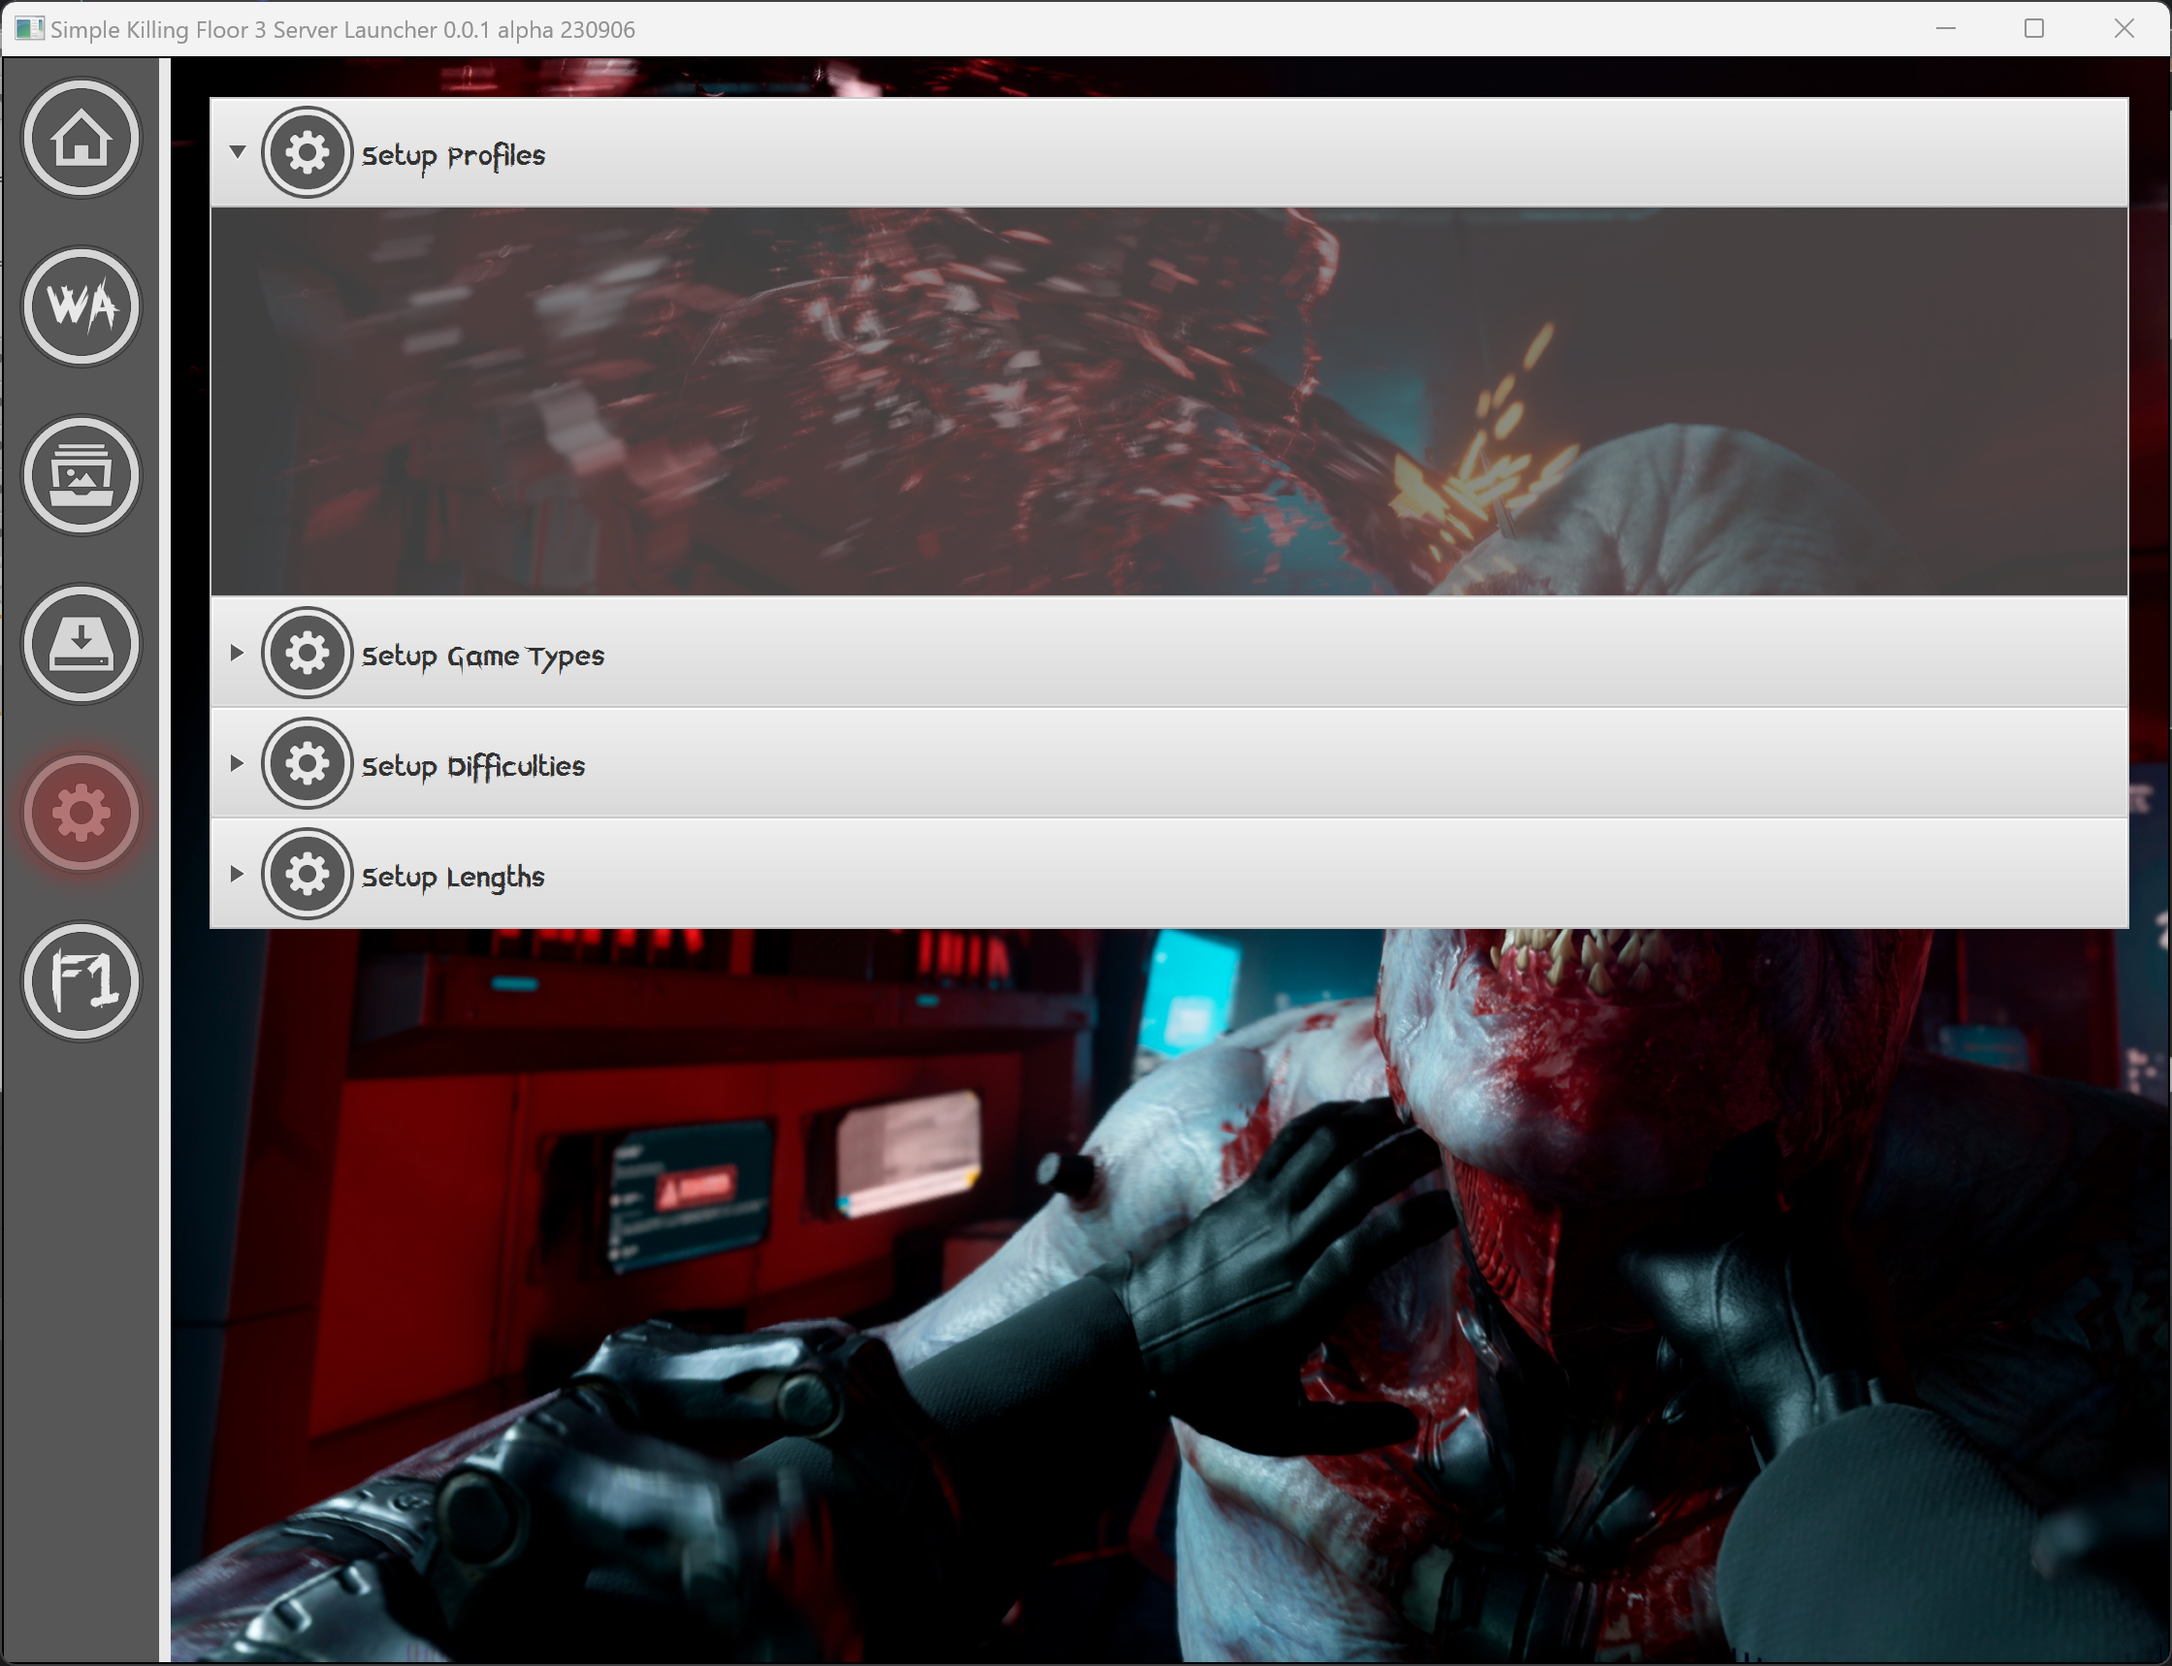
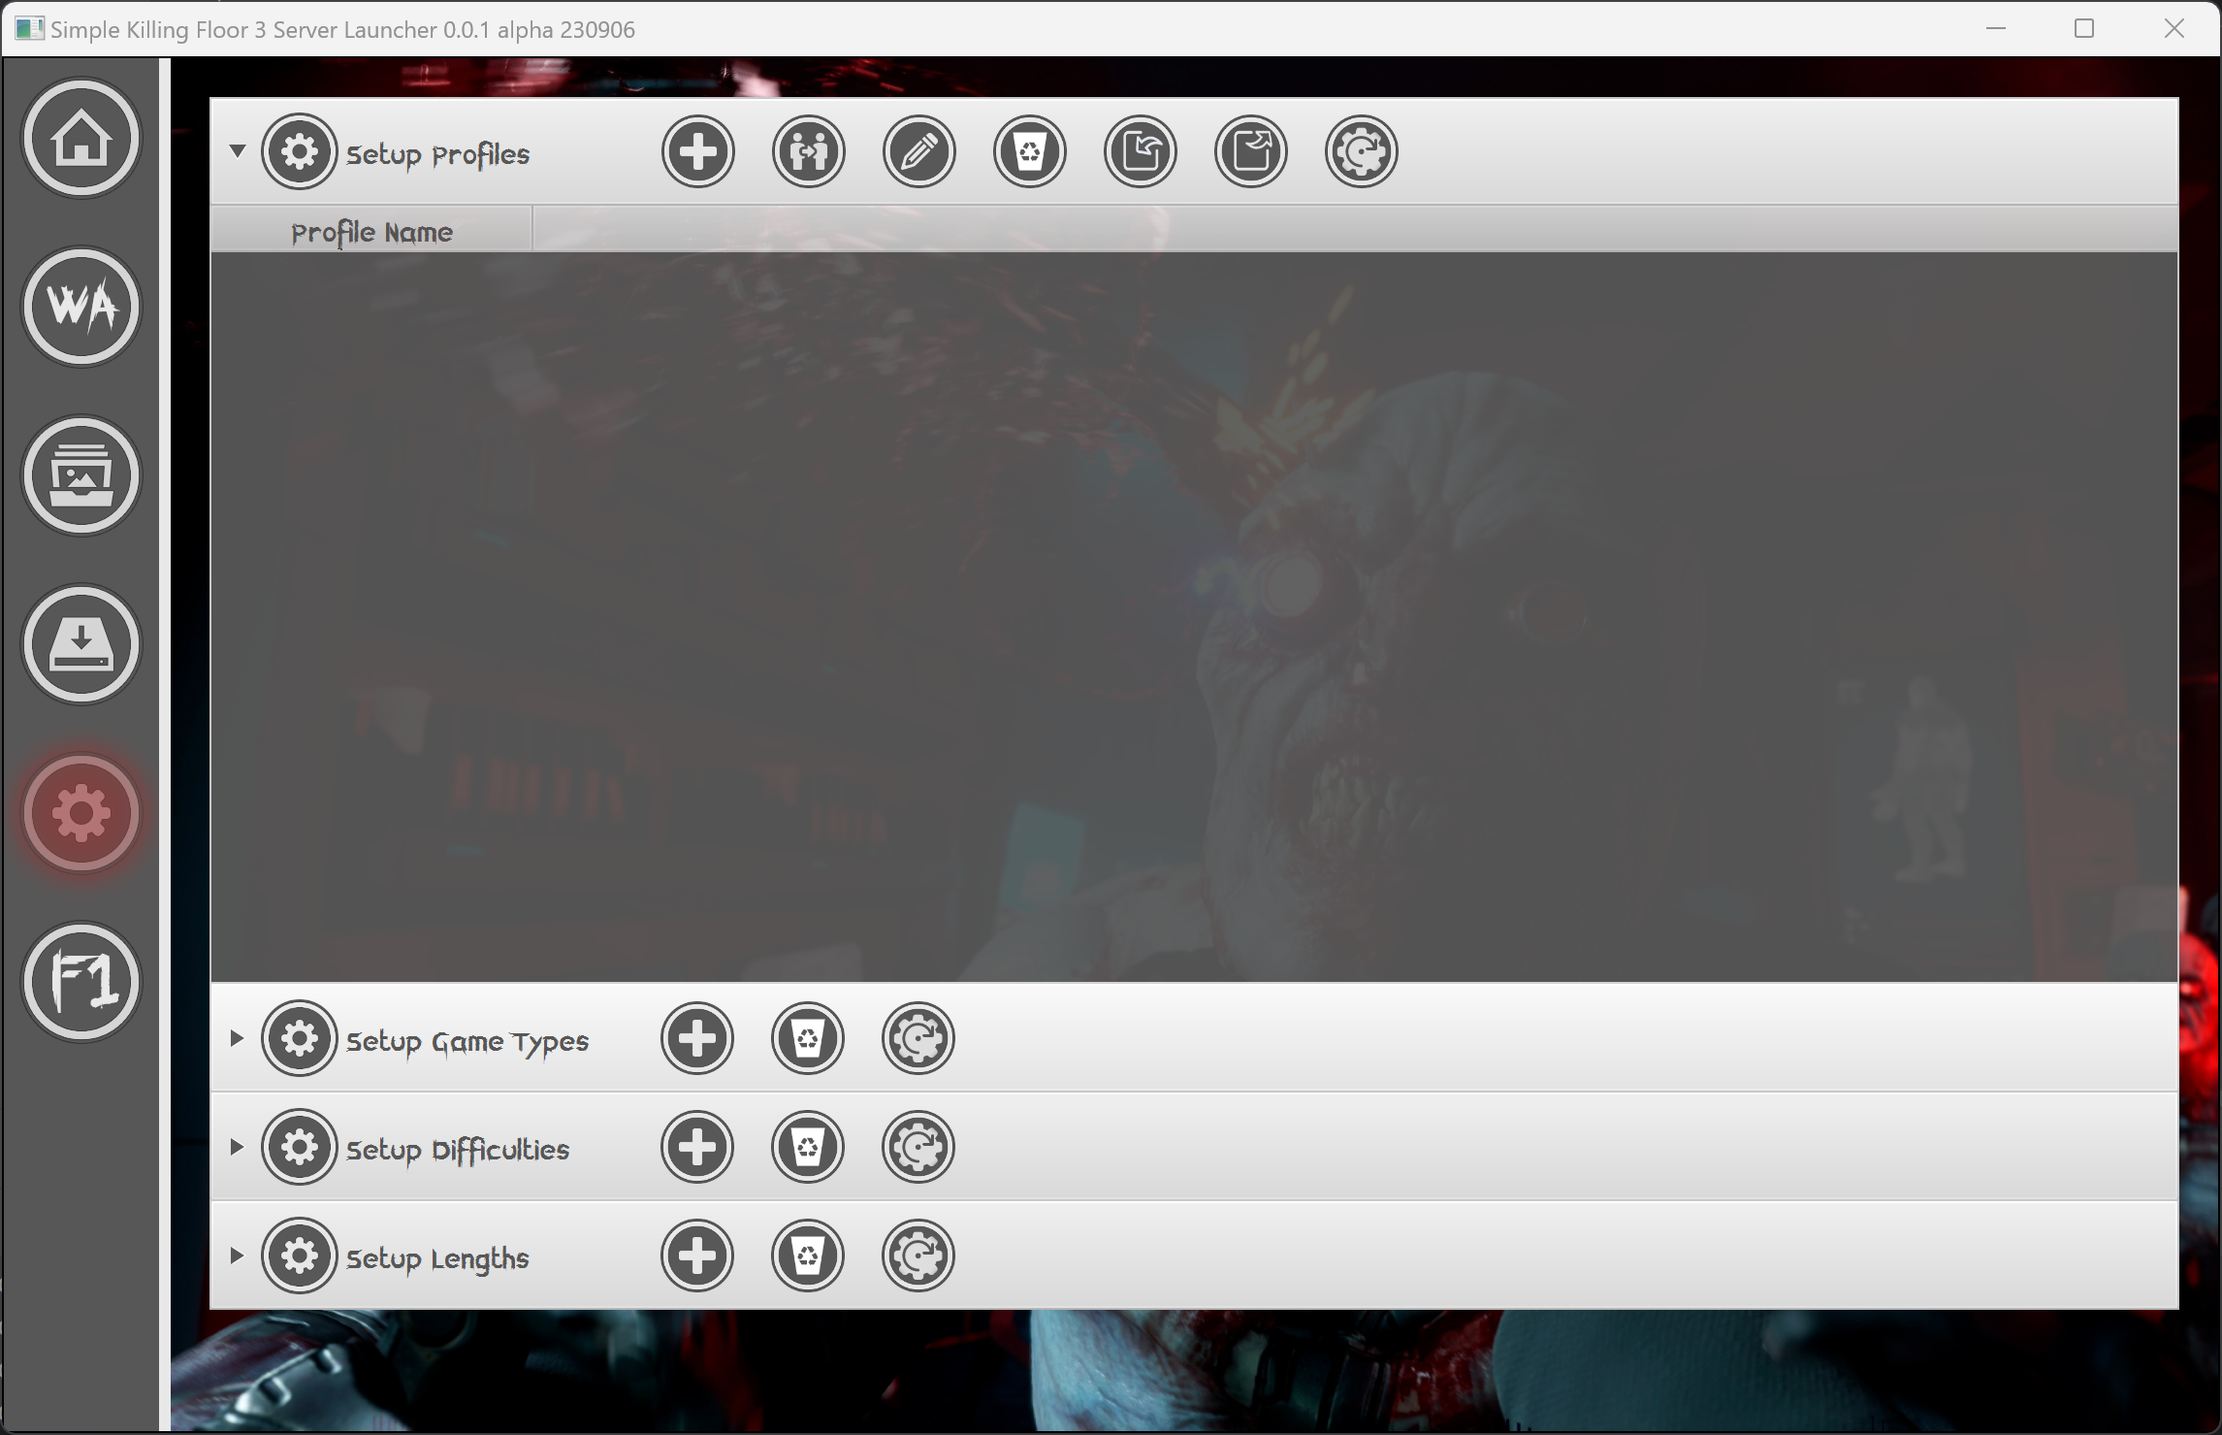
Developing GUI's behaviors

diff --git a/src/main/resources/css/custom.css b/src/main/resources/css/custom.css
@@ -121,3 +121,12 @@
 .slider .thumb{
     -fx-background-color: #575757;
 }
+
+.table-view {
+    -fx-background-color: #575757;
+    -fx-opacity: 0.8;
+}
+
+.table-view .label {
+    -fx-text-fill: #575757;
+}
